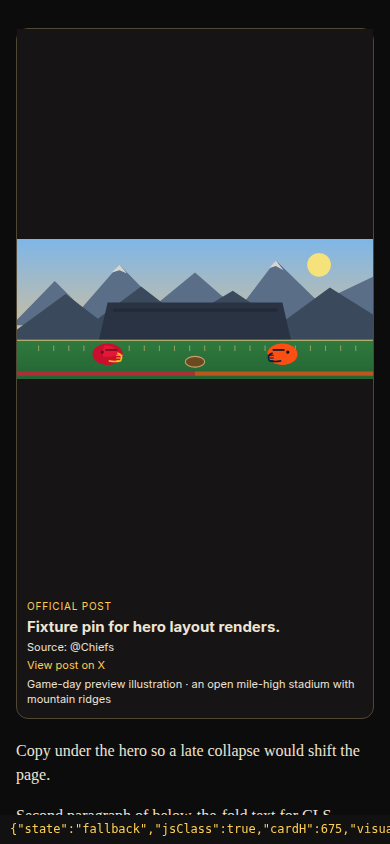
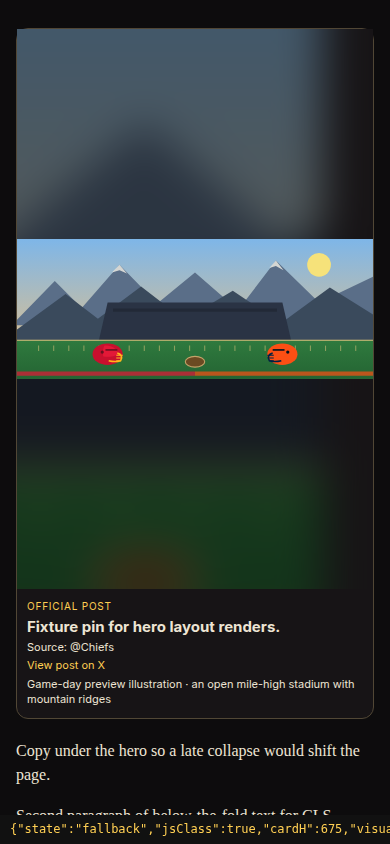
Fill the reserved hero box with a blurred SVG backdrop.
Keep the 560/640 reserve so CLS stays low, but layer the same scene
behind the contain/meet foreground as a cover-scaled, dimmed blur.
Both helmets stay in frame and the letterbox bands are no longer empty.

diff --git a/public/css/editorial-layout.css b/public/css/editorial-layout.css
@@ -15,11 +15,29 @@ html.nrt-hero-js .nrt-hero-media[data-hero-kind="x-embed"][data-hero-state="fall
   min-height: var(--nrt-embed-reserve);
   overflow: visible;
 }
-html.nrt-hero-js .nrt-hero-media[data-hero-kind="x-embed"][data-hero-state="pending"] .nrt-hero-media__fallback .nrt-event-illustration,
-html.nrt-hero-js .nrt-hero-media[data-hero-kind="x-embed"][data-hero-state="fallback"] .nrt-hero-media__fallback .nrt-event-illustration {
+html.nrt-hero-js .nrt-hero-media[data-hero-kind="x-embed"][data-hero-state="pending"] .nrt-hero-media__art .nrt-event-illustration,
+html.nrt-hero-js .nrt-hero-media[data-hero-kind="x-embed"][data-hero-state="fallback"] .nrt-hero-media__art .nrt-event-illustration {
   height: var(--nrt-embed-reserve);
   object-fit: contain;
   object-position: center;
+}
+html.nrt-hero-js .nrt-hero-media[data-hero-kind="x-embed"][data-hero-state="pending"] .nrt-hero-media__backdrop,
+html.nrt-hero-js .nrt-hero-media[data-hero-kind="x-embed"][data-hero-state="fallback"] .nrt-hero-media__backdrop {
+  display: block;
+  position: absolute;
+  inset: 0;
+  z-index: 0;
+  overflow: hidden;
+  pointer-events: none;
+}
+html.nrt-hero-js .nrt-hero-media[data-hero-kind="x-embed"][data-hero-state="pending"] .nrt-hero-media__backdrop .nrt-event-illustration,
+html.nrt-hero-js .nrt-hero-media[data-hero-kind="x-embed"][data-hero-state="fallback"] .nrt-hero-media__backdrop .nrt-event-illustration {
+  position: absolute;
+  inset: -14%;
+  width: 128%;
+  height: 128%;
+  object-fit: cover;
+  filter: blur(22px) brightness(0.48);
 }
 .nrt-hero-media[data-hero-kind="x-embed"] .nrt-hero-media__fallback {
   position: relative;
@@ -27,6 +45,13 @@ html.nrt-hero-js .nrt-hero-media[data-hero-kind="x-embed"][data-hero-state="fall
   display: block;
   width: 100%;
 }
+html.nrt-hero-js .nrt-hero-media[data-hero-kind="x-embed"][data-hero-state="pending"] .nrt-hero-media__fallback,
+html.nrt-hero-js .nrt-hero-media[data-hero-kind="x-embed"][data-hero-state="fallback"] .nrt-hero-media__fallback {
+  min-height: var(--nrt-embed-reserve);
+  overflow: hidden;
+}
+.nrt-hero-media[data-hero-kind="x-embed"] .nrt-hero-media__backdrop { display: none; }
+.nrt-hero-media[data-hero-kind="x-embed"] .nrt-hero-media__art { position: relative; z-index: 1; }
 .nrt-hero-media[data-hero-kind="x-embed"] .nrt-hero-media__fallback .nrt-event-illustration { width: 100%; height: auto; }
 .nrt-hero-media[data-hero-kind="x-embed"] .nrt-hero-media__embed { position: relative; z-index: 1; }
 .nrt-hero-media[data-hero-kind="x-embed"][data-hero-state="pending"] .nrt-hero-media__embed,

diff --git a/layouts/partials/nrt-hero-media.html b/layouts/partials/nrt-hero-media.html
@@ -22,7 +22,10 @@
 <script>document.documentElement.classList.add("nrt-hero-js");</script>
 <figure class="nrt-hero-media" data-hero-kind="x-embed" data-hero-state="pending" data-hero-min-embed="240" data-hero-post-id="{{ $pin.id }}" data-hero-scene="{{ $scene.id }}" data-hero-mapped="{{ if $scene.mapped }}true{{ else }}false{{ end }}" data-event-subject="{{ $context.subject }}" data-event-mode="{{ $context.mode }}">
   <div class="nrt-hero-media__visual nrt-hero-media__visual--embed">
-    <div class="nrt-hero-media__fallback" data-hero-fallback>{{ $illustration }}</div>
+    <div class="nrt-hero-media__fallback" data-hero-fallback>
+      <div class="nrt-hero-media__backdrop" aria-hidden="true">{{ $illustration }}</div>
+      <div class="nrt-hero-media__art">{{ $illustration }}</div>
+    </div>
     <div class="nrt-hero-media__embed" data-hero-embed>
       <blockquote class="twitter-tweet" data-dnt="true" data-conversation="none">
         {{- with $pin.text -}}<p lang="en" dir="ltr">{{ . }}</p>{{- end -}}

diff --git a/tools/tests/test_hero_mutations.py b/tools/tests/test_hero_mutations.py
@@ -33,6 +33,7 @@ WORKFLOW_SRC = ROOT / ".github" / "workflows" / "narrative.yml"
 SCENE_TMPL = ROOT / "layouts" / "partials" / "nrt-hero-scene.html"
 POST_TMPL = ROOT / "layouts" / "partials" / "nrt-hero-post.html"
 MEDIA_TMPL = ROOT / "layouts" / "partials" / "nrt-hero-media.html"
+ILLUSTRATION_TMPL = ROOT / "layouts" / "partials" / "nrt-event-illustration.html"
 CSS_SRC = ROOT / "public" / "css" / "editorial-layout.css"
 EVIDENCE = ROOT / "docs" / "hero-evidence" / "mutation-report.md"
 
@@ -510,6 +511,12 @@ def _kill_hugo_svg(layouts: Path) -> str | None:
         temp.cleanup()
 
 
+def _kill_k4(text: str) -> str | None:
+    if 'preserveAspectRatio="xMidYMid meet"' not in text or "slice" in text:
+        return None
+    return "survived: inline SVG still uses meet"
+
+
 def _kill_css(css_text: str) -> str | None:
     if "16 / 10" in css_text or "16/10" in css_text:
         return None
@@ -533,9 +540,13 @@ def _kill_css(css_text: str) -> str | None:
         idx = pos + 1
     if not fallback_reserved:
         return None
+    if '[data-hero-state="fallback"] .nrt-hero-media__visual--embed' not in css_text:
+        return None
+    if "nrt-hero-media__backdrop" not in css_text or "blur(" not in css_text:
+        return None
     illus = css_text.split(
         "html.nrt-hero-js .nrt-hero-media[data-hero-kind=\"x-embed\"][data-hero-state=\"pending\"] "
-        ".nrt-hero-media__fallback .nrt-event-illustration",
+        ".nrt-hero-media__art .nrt-event-illustration",
         1,
     )
     if len(illus) < 2:
@@ -628,6 +639,7 @@ CHECKS = {
     "hugo_signed": _kill_hugo_signed,
     "hugo_svg": _kill_hugo_svg,
     "css": _kill_css,
+    "k4": _kill_k4,
     "workflow": _kill_workflow,
     "overlay": _kill_overlay,
     "signed_attach": _kill_signed_attach,
@@ -985,7 +997,10 @@ MUTANTS = (
     {
         "name": "N4",
         "path": MEDIA_TMPL,
-        "old": '    <div class="nrt-hero-media__fallback" data-hero-fallback>{{ $illustration }}</div>\n',
+        "old": '    <div class="nrt-hero-media__fallback" data-hero-fallback>\n'
+               '      <div class="nrt-hero-media__backdrop" aria-hidden="true">{{ $illustration }}</div>\n'
+               '      <div class="nrt-hero-media__art">{{ $illustration }}</div>\n'
+               '    </div>\n',
         "new": "    <div class=\"nrt-hero-media__fallback\" data-hero-fallback></div>\n",
         "killer": "a pinned embed must still keep the SVG in the document",
         "kind": "hugo",
@@ -1027,6 +1042,25 @@ MUTANTS = (
         "killer": "wait and fallback must contain the SVG so both helmets stay in frame",
         "kind": "css",
         "check": "css",
+    },
+    {
+        "name": "K3",
+        "path": CSS_SRC,
+        "old": "html.nrt-hero-js .nrt-hero-media[data-hero-kind=\"x-embed\"][data-hero-state=\"pending\"] .nrt-hero-media__art .nrt-event-illustration,\n"
+               "html.nrt-hero-js .nrt-hero-media[data-hero-kind=\"x-embed\"][data-hero-state=\"fallback\"] .nrt-hero-media__art .nrt-event-illustration {\n",
+        "new": "html.nrt-hero-js .nrt-hero-media[data-hero-kind=\"x-embed\"][data-hero-state=\"pending\"] .nrt-hero-media__art .nrt-event-illustration {\n",
+        "killer": "fallback must keep the reserved height and contain the SVG",
+        "kind": "css",
+        "check": "css",
+    },
+    {
+        "name": "K4",
+        "path": ILLUSTRATION_TMPL,
+        "old": 'preserveAspectRatio="xMidYMid meet"',
+        "new": 'preserveAspectRatio="xMidYMid slice"',
+        "killer": "the inline SVG must keep preserveAspectRatio meet, not slice",
+        "kind": "text",
+        "check": "k4",
     },
     {
         "name": "N15",
@@ -1152,10 +1186,18 @@ class HeroMutations(unittest.TestCase):
         self.assertIn("html.nrt-hero-js", css)
         self.assertIn('[data-hero-state="fallback"]', css)
         self.assertIn("object-fit: contain", css)
+        self.assertIn("nrt-hero-media__backdrop", css)
+        self.assertIn("nrt-hero-media__art", css)
         self.assertIn(
             '[data-hero-state="fallback"] .nrt-hero-media__visual--embed',
             css,
         )
+        self.assertIn(
+            '[data-hero-state="fallback"] .nrt-hero-media__art .nrt-event-illustration',
+            css,
+        )
+        self.assertIn('preserveAspectRatio="xMidYMid meet"', ILLUSTRATION_TMPL.read_text(encoding="utf-8"))
+        self.assertNotIn("slice", ILLUSTRATION_TMPL.read_text(encoding="utf-8"))
         self.assertNotIn("SIGNED_PIN_WHITELIST", POSTS_SRC.read_text(encoding="utf-8"))
         self.assertIn("has no readable edition", POSTS_SRC.read_text(encoding="utf-8"))
         self.assertIn("edition signature check failed", POSTS_SRC.read_text(encoding="utf-8"))

diff --git a/tools/tests/test_hero_posts.py b/tools/tests/test_hero_posts.py
@@ -403,6 +403,26 @@ class HeroPostAllowlist(unittest.TestCase):
         self.assertNotIn("publish.twitter.com", src)
         self.assertNotIn("api.x.com", src)
 
+    def test_fallback_height_and_contain_rules_stay(self):
+        css = (ROOT / "public" / "css" / "editorial-layout.css").read_text(encoding="utf-8")
+        self.assertRegex(
+            css,
+            r'\[data-hero-state="fallback"\] \.nrt-hero-media__art \.nrt-event-illustration'
+            r'[\s\S]{0,280}height:\s*var\(--nrt-embed-reserve\)',
+        )
+        self.assertRegex(
+            css,
+            r'\[data-hero-state="fallback"\] \.nrt-hero-media__art \.nrt-event-illustration'
+            r'[\s\S]{0,320}object-fit:\s*contain',
+        )
+        self.assertIn("nrt-hero-media__backdrop", css)
+        self.assertIn("filter: blur(", css)
+
+    def test_inline_svg_preserve_aspect_is_meet_not_slice(self):
+        src = (ROOT / "layouts" / "partials" / "nrt-event-illustration.html").read_text(encoding="utf-8")
+        self.assertIn('preserveAspectRatio="xMidYMid meet"', src)
+        self.assertNotIn("slice", src)
+
 
 @unittest.skipUnless(Path(HUGO).is_file(), "Hugo unavailable")
 class HeroPostRendering(unittest.TestCase):
@@ -533,6 +553,9 @@ class HeroPostRendering(unittest.TestCase):
         self.assertIn("View post on X", den)
         self.assertIn("Source:", den)
         self.assertIn("nrt-hero-media__fallback", den)
+        self.assertIn("nrt-hero-media__backdrop", den)
+        self.assertIn("nrt-hero-media__art", den)
+        self.assertRegex(den, r'aria-hidden="?true"?')
         self.assertIn("preview-away-den.svg", den)
         self.assertIn("nrt-hero-media__visual--embed", den)
         self.assertRegex(self.page, r'<script\s+async\s+src="?https://platform\.twitter\.com/widgets\.js"?')
@@ -554,10 +577,29 @@ class HeroPostRendering(unittest.TestCase):
         self.assertIn('[data-hero-state="fallback"]', self.css)
         self.assertIn("min-height: 0", self.css)
         self.assertIn("object-fit: contain", self.css)
+        self.assertIn("nrt-hero-media__backdrop", self.css)
+        self.assertIn("filter: blur(", self.css)
         self.assertIn(
             '[data-hero-state="fallback"] .nrt-hero-media__visual--embed',
             self.css,
         )
+        self.assertIn(
+            '[data-hero-state="fallback"] .nrt-hero-media__art .nrt-event-illustration',
+            self.css,
+        )
+        self.assertRegex(
+            self.css,
+            r'\[data-hero-state="fallback"\] \.nrt-hero-media__art \.nrt-event-illustration'
+            r'[\s\S]{0,280}height:\s*var\(--nrt-embed-reserve\)',
+        )
+        self.assertRegex(
+            self.css,
+            r'\[data-hero-state="fallback"\] \.nrt-hero-media__art \.nrt-event-illustration'
+            r'[\s\S]{0,320}object-fit:\s*contain',
+        )
+        illustration = (ROOT / "layouts" / "partials" / "nrt-event-illustration.html").read_text(encoding="utf-8")
+        self.assertIn('preserveAspectRatio="xMidYMid meet"', illustration)
+        self.assertNotIn("slice", illustration)
         self.assertNotIn("aspect-ratio: 16 / 10", self.css)
         self.assertNotIn("pbs.twimg.com", den)
         self.assertNotIn("video.twimg.com", den)

diff --git a/docs/hero-evidence/render_deleted_hero.py b/docs/hero-evidence/render_deleted_hero.py
@@ -91,13 +91,16 @@ MEASURE_SNIPPET = """
     var out = document.getElementById("hero-measure");
     if (!fig || !out) return;
     var visual = fig.querySelector(".nrt-hero-media__visual");
-    var svg = fig.querySelector(".nrt-event-illustration");
+    var art = fig.querySelector(".nrt-hero-media__art .nrt-event-illustration");
+    var back = fig.querySelector(".nrt-hero-media__backdrop .nrt-event-illustration");
+    var svg = art || fig.querySelector(".nrt-event-illustration");
     var iframe = fig.querySelector("iframe");
     var card = fig.getBoundingClientRect();
     var vb = visual ? visual.getBoundingClientRect() : { height: 0, width: 0 };
     var sb = svg ? svg.getBoundingClientRect() : { height: 0 };
+    var bb = back ? back.getBoundingClientRect() : { height: 0, width: 0 };
     var ib = iframe ? iframe.getBoundingClientRect() : { height: 0 };
-    var fill = Math.max(sb.height || 0, ib.height || 0);
+    var fill = Math.max(sb.height || 0, bb.height || 0, ib.height || 0);
     var payload = {
       state: fig.getAttribute("data-hero-state"),
       jsClass: document.documentElement.classList.contains("nrt-hero-js"),
@@ -105,6 +108,8 @@ MEASURE_SNIPPET = """
       visualW: Math.round(vb.width),
       visualH: Math.round(vb.height),
       svgH: Math.round(sb.height),
+      backdropH: Math.round(bb.height),
+      backdropW: Math.round(bb.width),
       iframeH: Math.round(ib.height),
       blankPx: Math.max(0, Math.round(vb.height - fill)),
       cls: Math.round((window.__nrtCls || 0) * 10000) / 10000

diff --git a/docs/narrative-media.md b/docs/narrative-media.md
@@ -21,9 +21,10 @@ the alt is dishonest. There is no paid OCR and no network at build; the
 The embed is a server-rendered blockquote with the visible source credit and
 the post link. Height is reserved (about 640px on desktop, 560px on a 390px
 phone) while JavaScript is on and the pin is pending, ready, or fallback, so
-a deleted post does not collapse the box and CLS stays low. The SVG fills
-that reserved box with `object-fit: contain` / `preserveAspectRatio=xMidYMid
-meet` so both helmets stay in frame. JS-off sizes the box to the SVG.
+a deleted post does not collapse the box and CLS stays low. The same SVG is
+layered as an `aria-hidden` cover-scaled blur behind a contain/meet
+foreground so the box is filled and both helmets stay in frame. JS-off
+sizes the box to the SVG.
 `widgets.js` loads async, only on pages that have a pinned post, and only
 from `https://platform.twitter.com`. The SVG illustration stays visible
 behind or under the embed until the iframe's rendered height is above 240px

diff --git a/docs/hero-evidence/mutation-report.md b/docs/hero-evidence/mutation-report.md
@@ -1,6 +1,6 @@
 # Hero mutation report (Karen IDs)
 
-Evaluated 44 named mutants. Survivors are listed below.
+Evaluated 46 named mutants. Survivors are listed below.
 
 | Mutant | Killer | Result |
 | --- | --- | --- |
@@ -45,6 +45,8 @@ Evaluated 44 named mutants. Survivors are listed below.
 | N17 | fallback must keep the reserved embed height | killed |
 | N18 | JS-off must not keep an unguarded reserved embed box | killed |
 | N19 | wait and fallback must contain the SVG so both helmets stay in frame | killed |
+| K3 | fallback must keep the reserved height and contain the SVG | killed |
+| K4 | the inline SVG must keep preserveAspectRatio meet, not slice | killed |
 | N15 | edition_overlay must allow data/hero_posts.json | killed |
 | N1 | the daily workflow must git-add data/hero_posts.json | killed |
 | S2 | attach_sidecar must refuse already-signed editions | killed |
